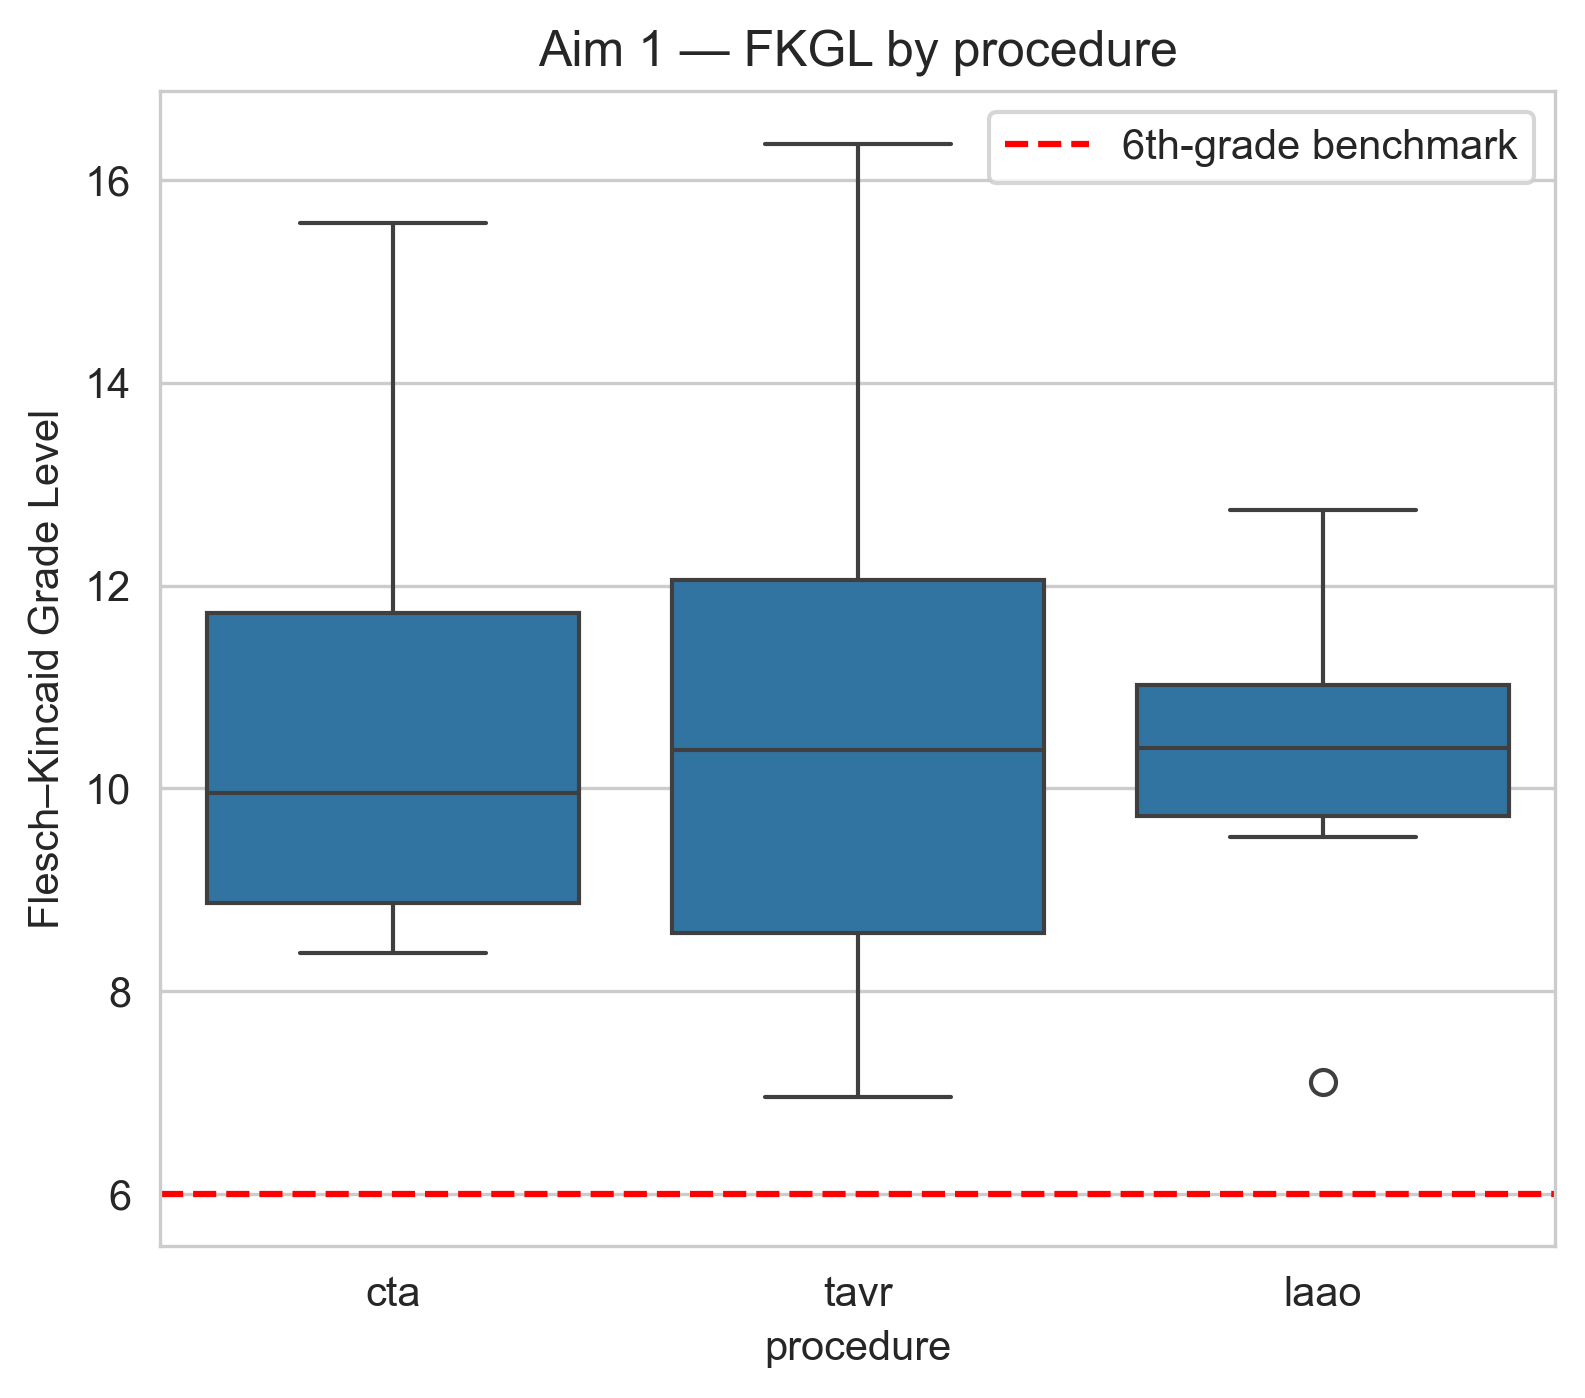
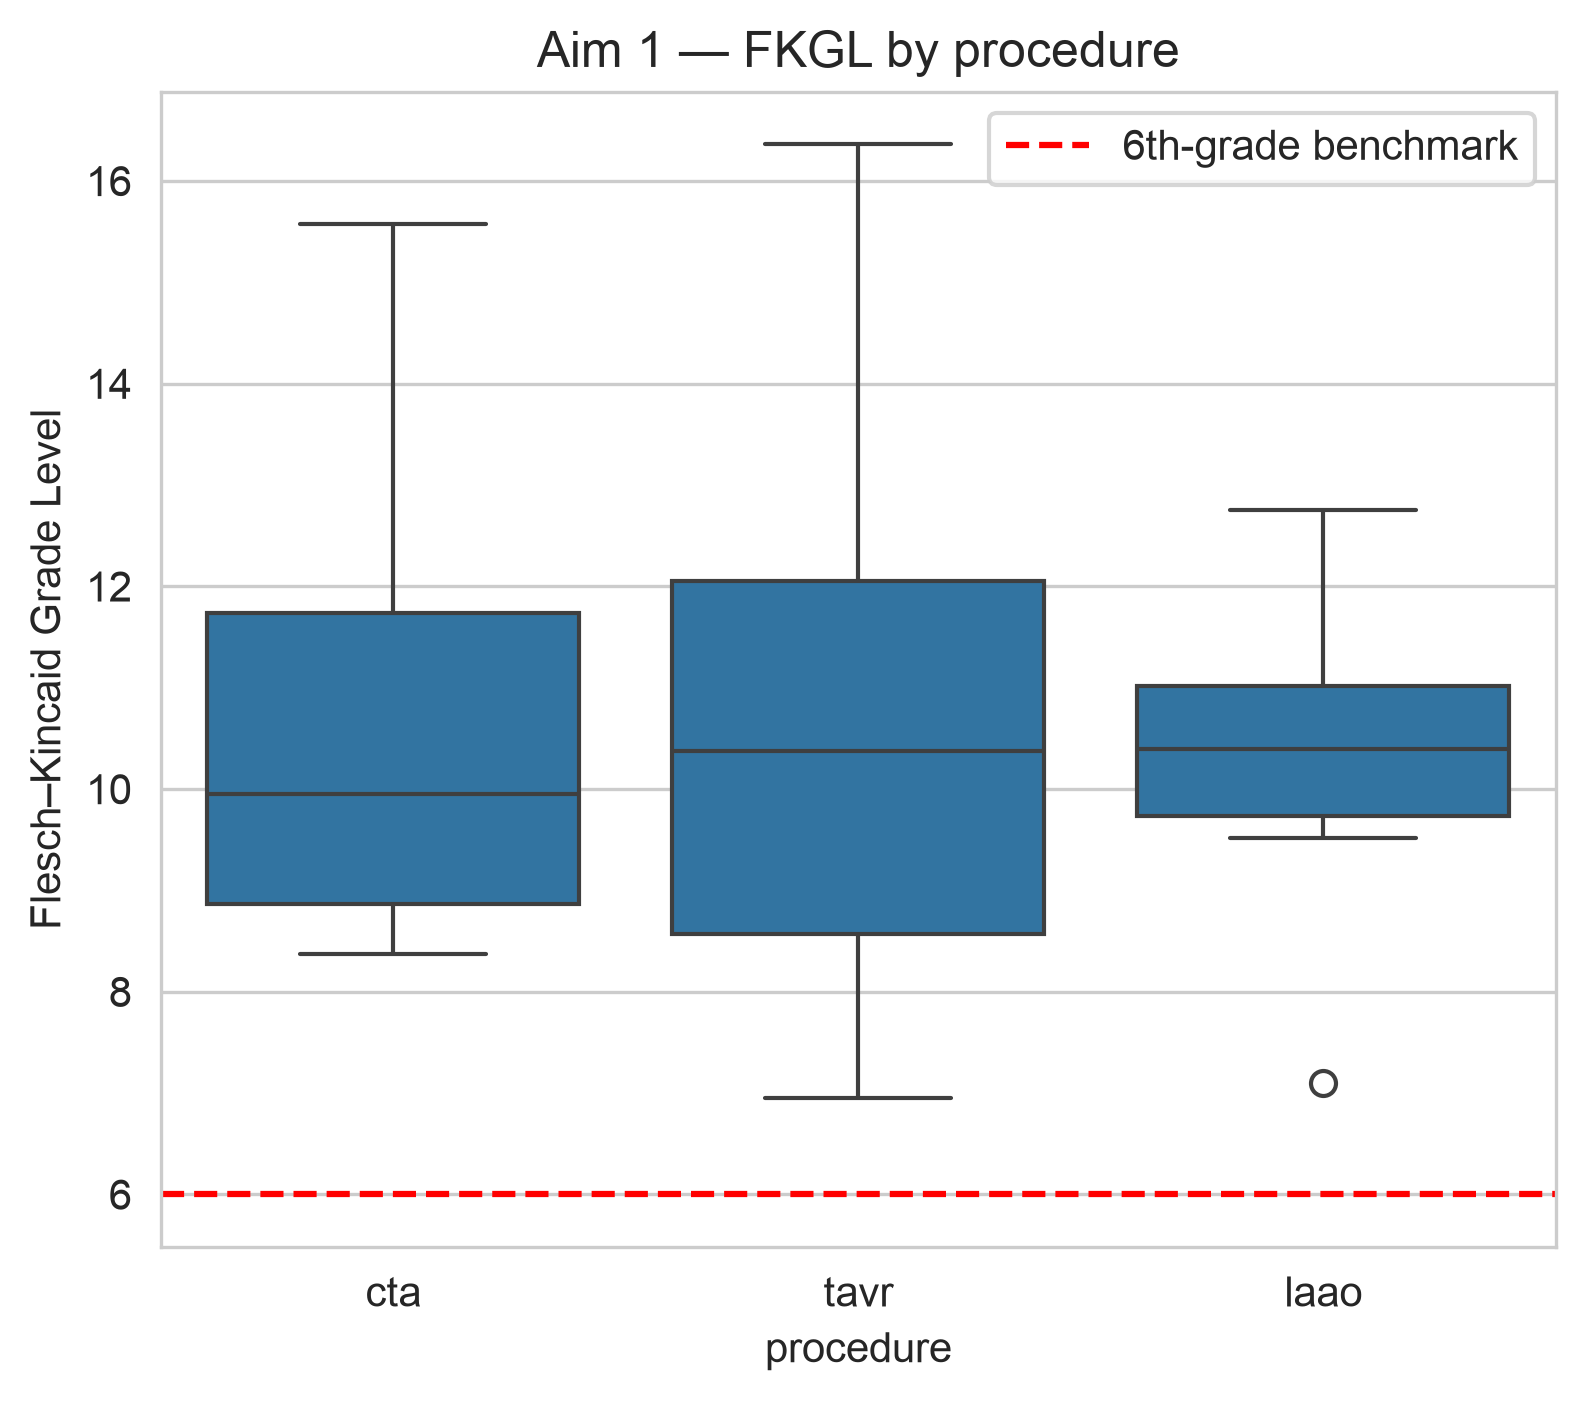
Make the review packet machine-portable; lock the environment
Regenerated every result from the checked-in data. All CSVs came back
byte-identical, so the numbers reproduce exactly; six figures re-rendered
under matplotlib 3.11.0 with cosmetic-only differences (verified visually -
correct fonts and labels, no missing glyphs).

review_packet.csv had absolute paths baked in from a different machine
(/Users/arazak/projects/extreme-emu/...), so step 06 produced a spurious
77-line diff on every other checkout. src/scoring.py now writes repo-relative
paths via a small _repo_relative helper. This is a path-rendering change only:
blind_id order and the page/model mapping are unchanged, blind_key.csv is
byte-identical, and the 565 collected human ratings stay correctly keyed. 06 is
confirmed idempotent - two consecutive runs give identical md5s for both the
packet and the key.

Added requirements-lock.txt with exact pins for the environment that produced
the committed results (Python 3.11.7; textstat 0.7.13, pandas 3.0.3,
numpy 2.4.6, scipy 1.17.1, statsmodels 0.14.6, matplotlib 3.11.0,
seaborn 0.13.2). requirements.txt uses floor pins (>=), so a fresh install does
not necessarily reproduce the published numbers - notably textstat, which every
readability score depends on, is floored at >=0.7.3 rather than pinned.

Also gitignores local-docs/, which holds the operational runbook and
maintenance log. Those are deliberately local-only and are never committed.

Steps 01, 02 and 04 were deliberately NOT run: 01 and 02 would destroy the five
[…]

diff --git a/src/scoring.py b/src/scoring.py
@@ -18,6 +18,21 @@ from pathlib import Path
 
 import pandas as pd
 
+from src.config import REPO_ROOT
+
+
+def _repo_relative(path: Path) -> str:
+    """Render a path relative to the repo root so the packet is machine-portable.
+
+    The packet is a committed artifact; writing absolute paths would bake the
+    generating machine's home directory into it and make `06` produce a spurious
+    diff on every other checkout. Paths outside the repo are left absolute.
+    """
+    try:
+        return str(Path(path).resolve().relative_to(REPO_ROOT))
+    except ValueError:
+        return str(path)
+
 
 def _make_blind_id(rng: random.Random, length: int = 10) -> str:
     alphabet = string.ascii_uppercase + string.digits
@@ -88,8 +103,8 @@ def build_packet(
             w.writerow(
                 [
                     e.blind_id,
-                    str(e.original_path),
-                    str(e.rewrite_path),
+                    _repo_relative(e.original_path),
+                    _repo_relative(e.rewrite_path),
                     "",
                     "",
                     "",
